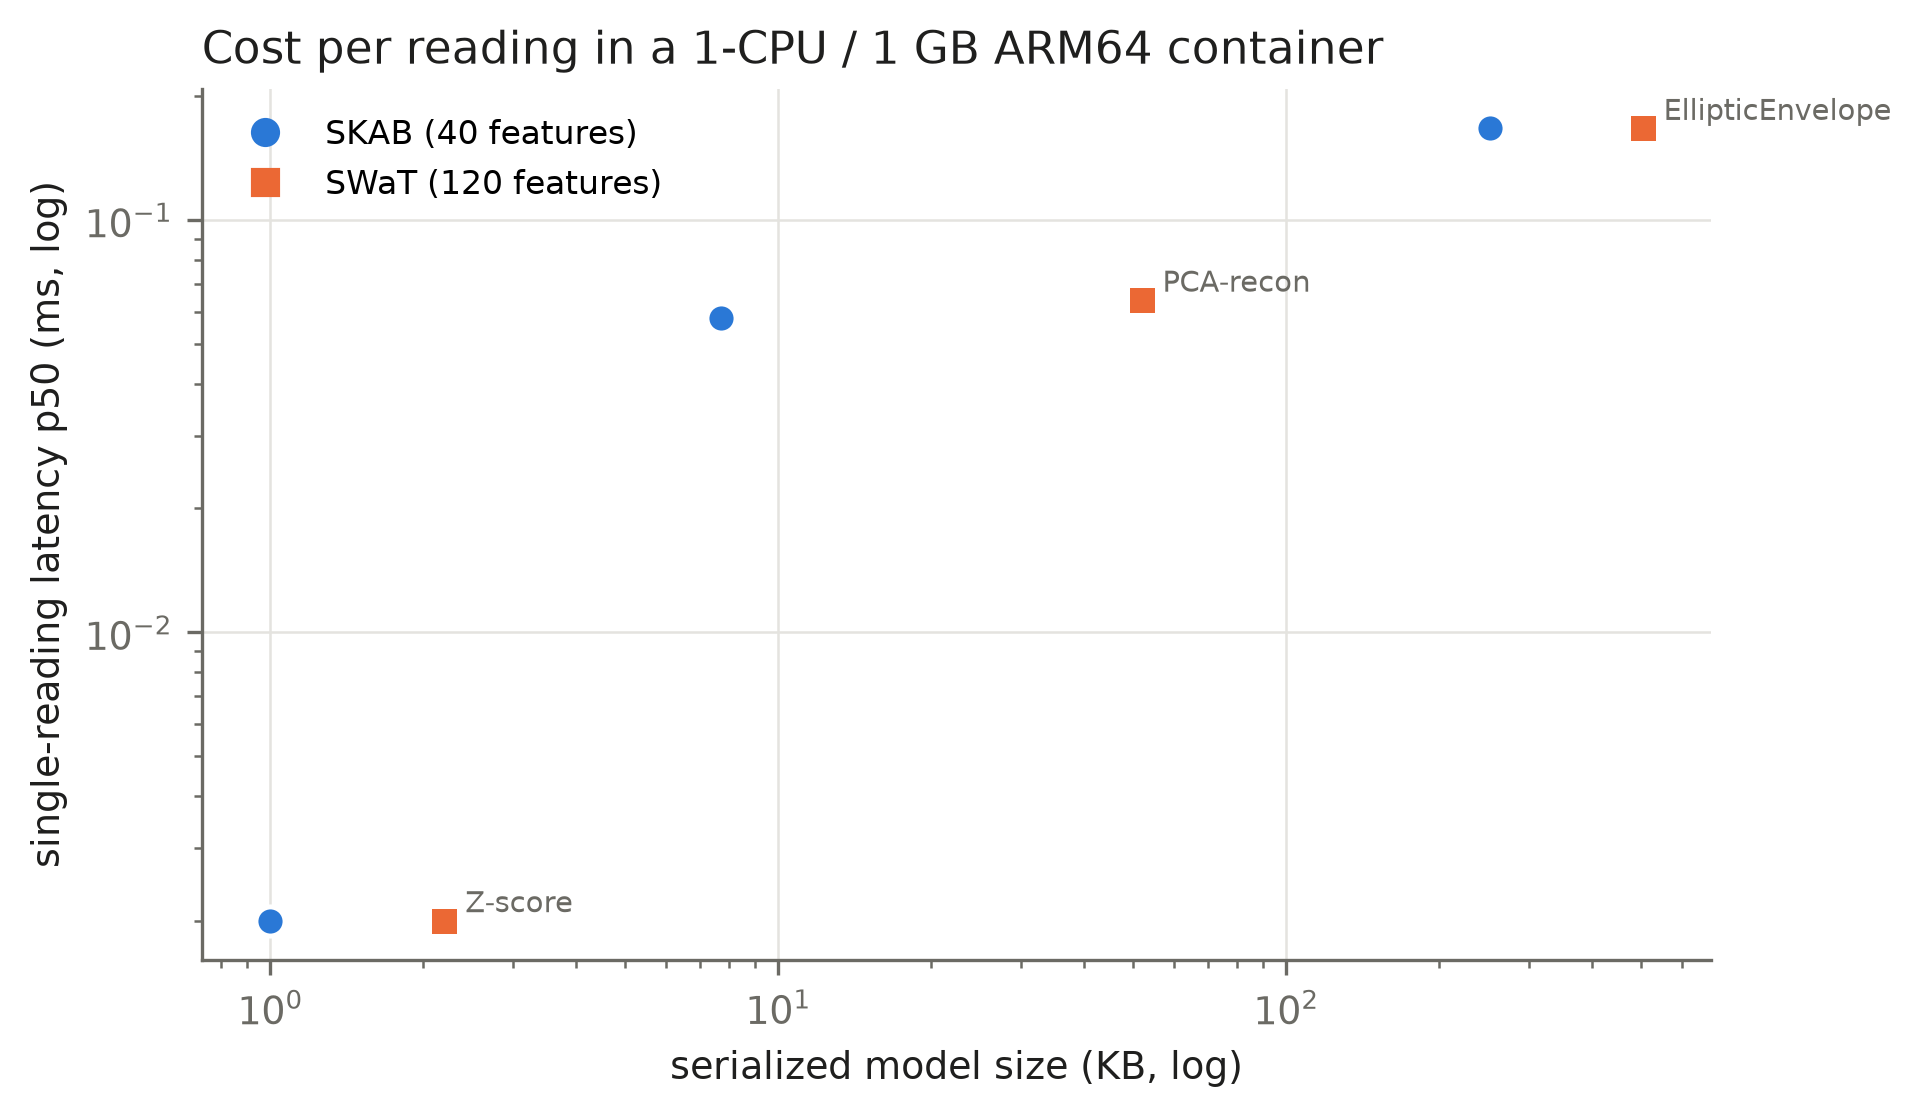
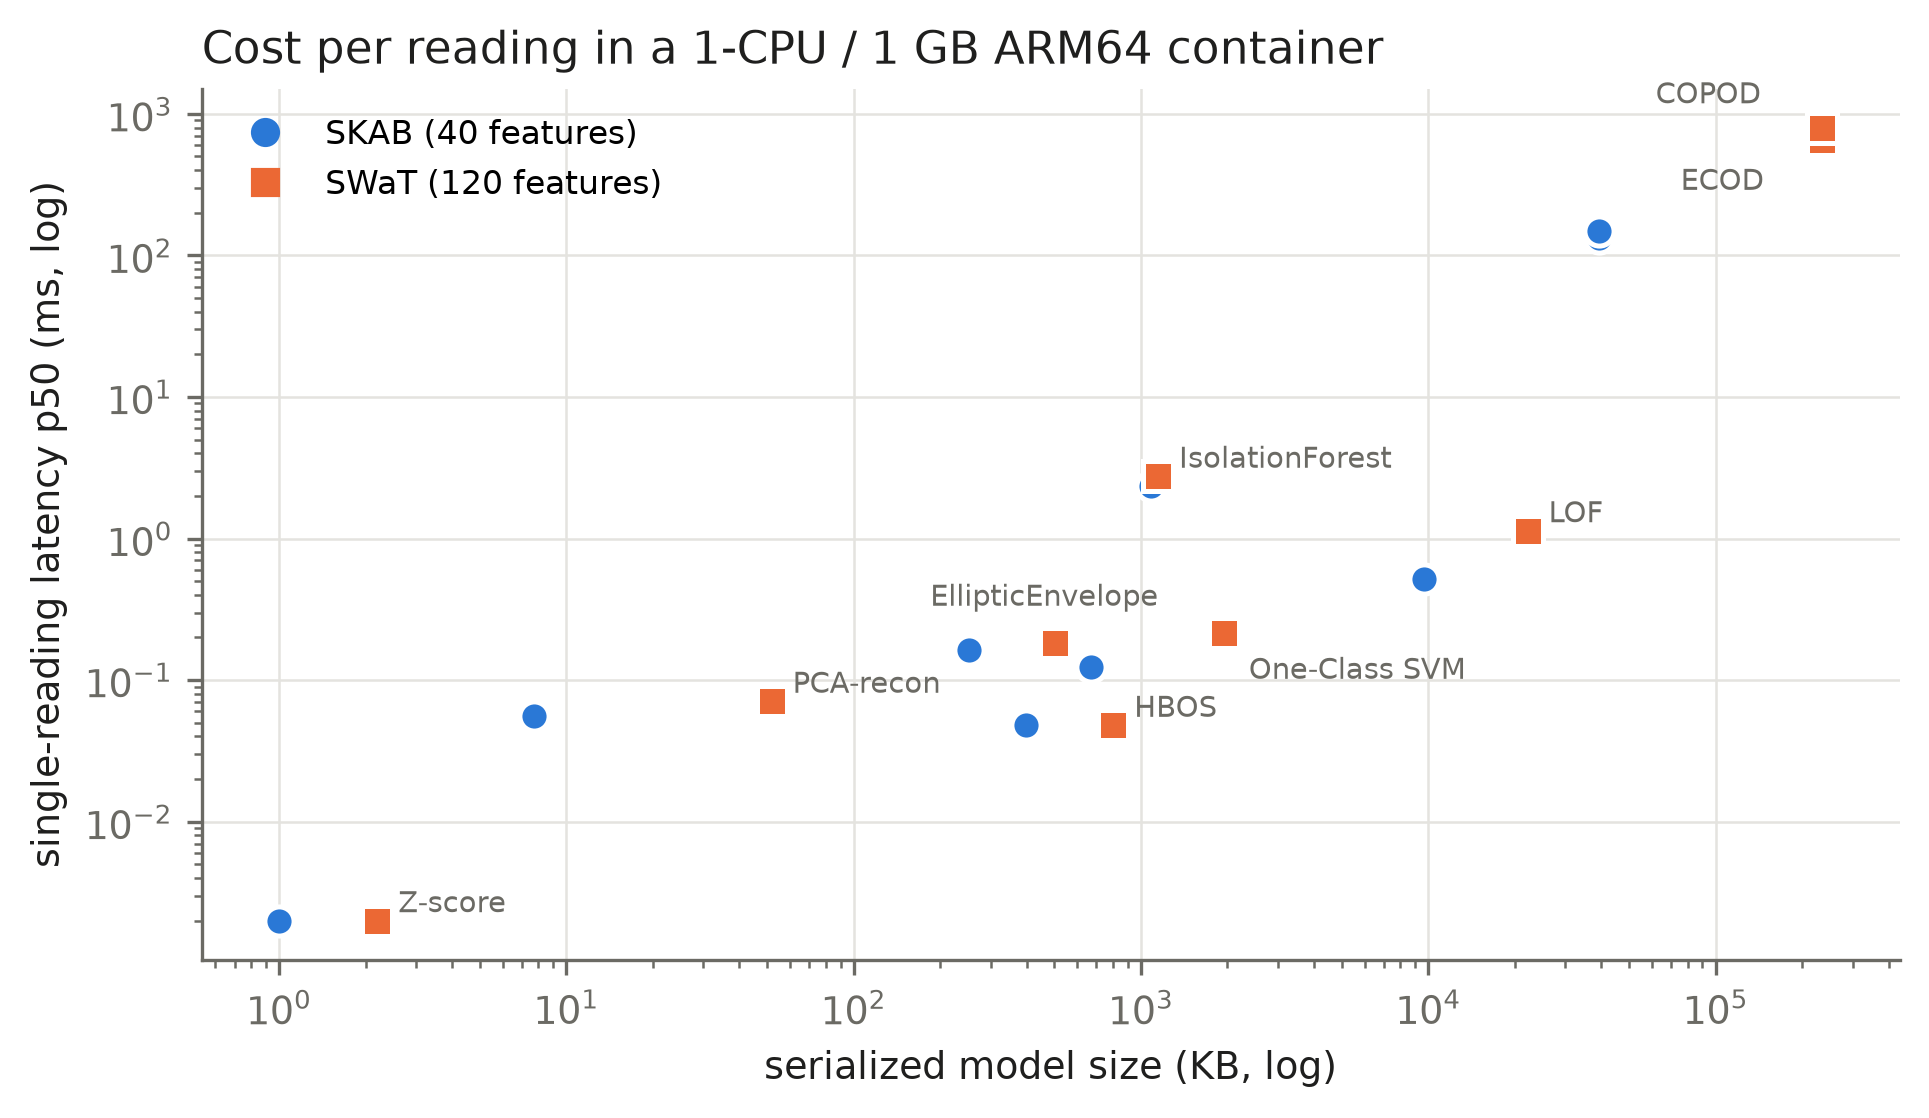
Finish revision: edge cost section, figures, Overleaf package for paper2

diff --git a/paper/paper2_revised.tex b/paper/paper2_revised.tex
@@ -49,7 +49,7 @@ simulation, SWaT's normal operation drifted enough to raise a static Isolation
 Forest's false-alarm rate from 12\% to 76\%; retraining restored detection only when
 retraining data were known to be normal, drift-triggered retraining was no better
 than a schedule with the same budget, and label-free retraining failed. Single-reading
-cost in a one-CPU, 1\,GB container ranged from microseconds to over 100\,ms. The
+cost in a one-CPU, 1\,GB container ranged from microseconds to over 600\,ms. The
 results argue for choosing detectors by threshold stability and retraining needs and
 for reporting protocols in enough detail to tell which of these a benchmark number
 measures.
@@ -620,7 +620,59 @@ calibration, producing a threshold too high to fire. Either way, a detector
 whose performance swings this much with the calibration window is fragile in
 deployment, a property a single benchmark number hides.
 
-%%EDGE%%
+\section{Resource Cost per Reading}
+\label{sec:edge}
+
+Table~\ref{tab:edge} and Fig.~\ref{fig:edge} report the cost of each detector
+fitted on SWaT-shaped data (120 features; 50{,}000 normal rows) inside the
+one-CPU, 1\,GB ARM64 container. Single-reading latency spans almost six orders of
+magnitude. The $z$-score scores a reading in $0.002$\,ms; PCA reconstruction, HBOS,
+Elliptic Envelope and One-Class SVM take $0.05$--$0.22$\,ms; LOF $1.1$\,ms;
+Isolation Forest $2.8$\,ms, dominated by per-call overhead across its 100 trees,
+since its batch throughput is $659{,}000$ rows/s. ECOD and COPOD, as implemented in
+PyOD, keep their training data and rescore against it on every call: $655$ and
+$791$\,ms per reading, $235$\,MB models, and peak memory at the container's 1\,GB cap
+(reported peak resident memory $1.10$--$1.13$\,GB). On SKAB-shaped data (40
+features) the pattern is the same at smaller scale (Isolation Forest $2.3$\,ms; ECOD
+and COPOD $133$--$148$\,ms and 39\,MB). The LSTM autoencoder takes $0.86$\,ms per
+30-second window with 58k parameters, but needs a deep-learning runtime (peak
+process memory $336$\,MB for inference alone). Recomputing the rolling features for
+one new reading from a 30-row buffer with the pipeline's pandas code costs
+$3.4$\,ms, more than any detector except ECOD and COPOD, so in a streaming
+deployment incremental feature updates would matter more than the choice among the
+fast detectors. These are lower bounds for a physical device.
+
+\begin{table}[t]
+\centering\small
+\caption{Cost per detector in a Docker container capped at one CPU and 1\,GB RAM
+(linux/arm64 on an Apple M4 host; single BLAS thread). SWaT-shaped input, 120
+features. Latency: one reading per call, 1{,}000 calls after warm-up. Peak memory is
+per process and includes loading the data.}
+\label{tab:edge}
+\begin{tabular}{lrrrrr}
+\toprule
+Detector & p50 latency (ms) & p99 (ms) & Batch rows/s & Size (KB) & Peak RSS (MB) \\
+\midrule
+$z$-score & 0.002 & 0.003 & 8{,}370{,}533 & 2 & 533 \\
+HBOS & 0.048 & 0.067 & 871{,}159 & 802 & 557 \\
+PCA-recon & 0.071 & 0.079 & 1{,}087{,}011 & 52 & 533 \\
+Elliptic Envelope & 0.182 & 0.193 & 5{,}090{,}678 & 503 & 533 \\
+One-Class SVM & 0.215 & 0.232 & 7{,}486 & 1{,}942 & 634 \\
+LOF & 1.138 & 1.202 & 6{,}183 & 22{,}188 & 533 \\
+Isolation Forest & 2.760 & 3.119 & 659{,}189 & 1{,}149 & 533 \\
+ECOD & 655.4 & 1{,}370.9 & 10{,}030 & 235{,}157 & 1{,}105 \\
+COPOD & 791.0 & 1{,}440.3 & 12{,}405 & 235{,}157 & 1{,}129 \\
+\bottomrule
+\end{tabular}
+\end{table}
+
+\begin{figure}[t]
+\centering
+\includegraphics[width=0.75\textwidth]{edge_cost.png}
+\caption{Single-reading latency against serialised model size (both log scale) in the
+capped container, for SKAB-shaped (40 features) and SWaT-shaped (120 features) input.}
+\label{fig:edge}
+\end{figure}
 
 \section{Discussion}
 \label{sec:discussion}
@@ -658,9 +710,9 @@ components), whose static form was as good as any adaptive variant; or adaptatio
 of the threshold rather than the model. For cheap models such as Isolation Forest, a
 drift test can cost more than the retrain it is meant to save.
 
-\paragraph{Cost.} Single-reading latencies span three orders of magnitude, from
-microseconds ($z$-score) to over 100\,ms (ECOD and COPOD in PyOD, which store and
-rescore against their training data), and model sizes from 1\,KB to 39\,MB. The
+\paragraph{Cost.} Single-reading latencies span almost six orders of magnitude, from
+microseconds ($z$-score) to over 600\,ms (ECOD and COPOD in PyOD on SWaT, which store and
+rescore against their training data), and model sizes from 1\,KB to 235\,MB. The
 batch-amortised figures used in the original study (around $0.002$\,ms per row for
 Isolation Forest) understate the real single-reading cost (about $2.3$--$2.8$\,ms)
 by three orders of magnitude, because per-call overhead dominates. For a monitor that
@@ -722,8 +774,9 @@ $0.64$--$0.72$). (RQ3) Normal operation drifts enough to break a static Isolatio
 Forest; retraining restores it only when the retraining data are known to be
 normal, drift-triggered retraining was no better than a schedule with the same
 budget, and label-free retraining failed. (RQ4) Single-reading costs range from
-microseconds to over 100\,ms and model sizes from kilobytes to tens of megabytes
-under a one-CPU, 1\,GB cap.
+microseconds to over 600\,ms and model sizes from kilobytes to hundreds of megabytes
+under a one-CPU, 1\,GB cap; the per-reading feature update (3.4\,ms) costs more than
+most detectors.
 
 The original version of this study reported dataset-specific winners, a large
 benefit from drift adaptation, and sub-millisecond inference; none of these

diff --git a/experiments/revision/figures_revised.py b/experiments/revision/figures_revised.py
@@ -108,7 +108,8 @@ def fig_edge():
         c = BLUE if ds == "SKAB" else ORANGE
         ax.plot(v["size_KB"], v["latency_ms_p50"], "o" if ds == "SKAB" else "s", color=c, ms=7, mec="white", mew=1.2)
         if ds == "SWaT":
-            ax.annotate(name, (v["size_KB"], v["latency_ms_p50"]), textcoords="offset points", xytext=(5, 2), fontsize=7, color=MUTED)
+            off = {"ECOD": (-34, -12), "COPOD": (-40, 6), "EllipticEnvelope": (-30, 9), "One-Class SVM": (6, -11)}.get(name, (5, 2))
+            ax.annotate(name, (v["size_KB"], v["latency_ms_p50"]), textcoords="offset points", xytext=off, fontsize=7, color=MUTED)
     from matplotlib.lines import Line2D
     ax.legend(handles=[Line2D([], [], marker="o", ls="", color=BLUE, label="SKAB (40 features)"),
                        Line2D([], [], marker="s", ls="", color=ORANGE, label="SWaT (120 features)")], frameon=False, fontsize=8)

diff --git a/paper/README.md b/paper/README.md
@@ -2,13 +2,20 @@
 
 Papers are numbered so future work can be added alongside:
 
+- **`paper2_revised.tex`** — **the current paper (2026-10-28)**, rewritten after the
+  ICACS-2026 rejection from re-run experiments (`results/revised/`). Venue-neutral
+  `article` class, author-year references (IJPHM uses APA). Upload
+  `overleaf_paper2.zip` (regenerable: copy the .tex + `results/revised/figures/*.png`
+  into a `figures/` folder) to Overleaf, compile with pdfLaTeX. See
+  `../revision/08_change_log.md` for every change and `../CHECKPOINT.md` for what is left.
+
 - **`paper1.tex`** — the current, complete paper, formatted for **ICACS 2026 /
   Springer LNNS** in the **Springer LLNCS** class (`llncs.cls`): six-model
   comparison across **two** datasets (SKAB + SWaT), the dataset-dependent-winner
   finding, a lightweight LSTM-autoencoder deep baseline, concept-drift
   adaptation, and the edge/constrained-hardware deployability result. Written in
   the impersonal academic voice (no first-person "we/our"). Built entirely from
-  this repo's real results. **This is the paper to submit.**
+  this repo's real results. Superseded by `paper2_revised.tex` (kept as the submitted, rejected version).
 - `paper.tex` — the earlier single-dataset draft (SKAB only, first-person
   voice, IEEE format). Kept for history; superseded by `paper1.tex`. The IEEE
   version of `paper1.tex` is preserved in git history (before the LLNCS reformat).
